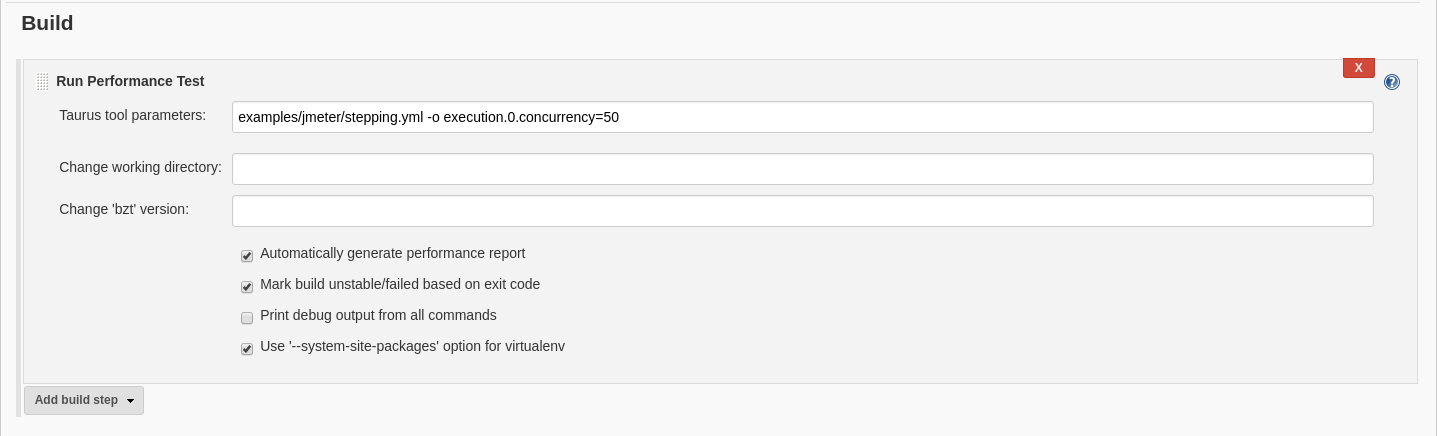
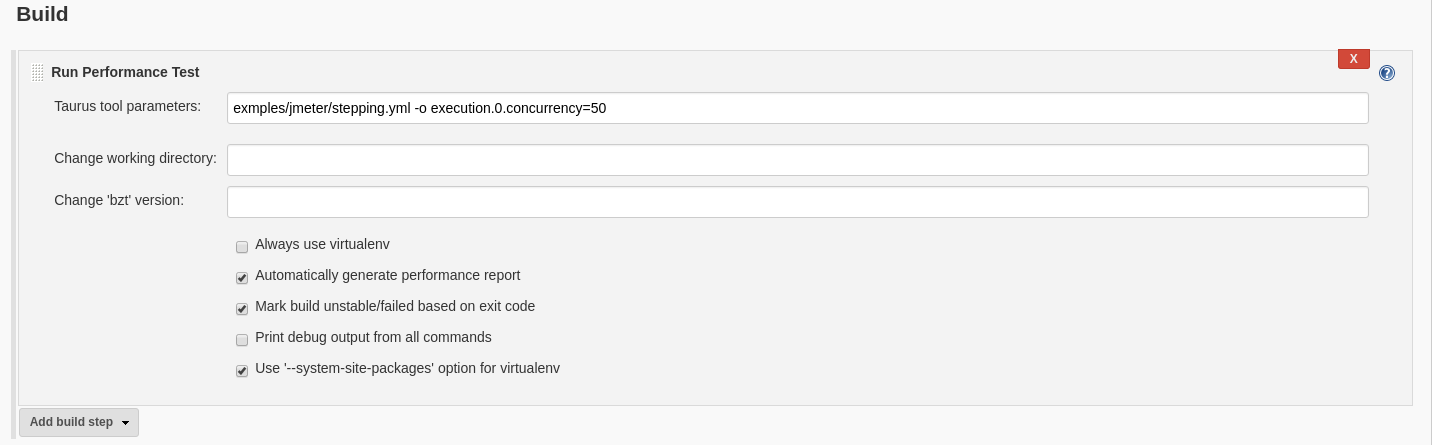
add `Always use virtualenv` flag (#116)

diff --git a/src/main/java/hudson/plugins/performance/build/PerformanceTestBuild.java b/src/main/java/hudson/plugins/performance/build/PerformanceTestBuild.java
@@ -71,6 +71,7 @@ public class PerformanceTestBuild extends Builder implements SimpleBuildStep {
 
     private String params;
     private boolean printDebugOutput = false;
+    private boolean alwaysUseVirtualenv = false;
     private boolean useSystemSitePackages = true;
     private boolean generatePerformanceTrend = true;
     private boolean useBztExitCode = true;
@@ -103,7 +104,7 @@ public class PerformanceTestBuild extends Builder implements SimpleBuildStep {
         }
 
         boolean isVirtualenvInstallation = false;
-        if (isGlobalBztInstalled(buildStepWorkspace, logger, launcher, envVars) ||
+        if ((!alwaysUseVirtualenv && isGlobalBztInstalled(buildStepWorkspace, logger, launcher, envVars)) ||
                 (isVirtualenvInstallation = installBztAndCheck(buildStepWorkspace, logger, launcher, envVars))) {
 
             int testExitCode = runPerformanceTest(buildStepWorkspace, logger, launcher, envVars, isVirtualenvInstallation);
@@ -322,6 +323,15 @@ public class PerformanceTestBuild extends Builder implements SimpleBuildStep {
 
     public boolean isPrintDebugOutput() {
         return printDebugOutput;
+    }
+
+    public boolean isAlwaysUseVirtualenv() {
+        return alwaysUseVirtualenv;
+    }
+
+    @DataBoundSetter
+    public void setAlwaysUseVirtualenv(boolean alwaysUseVirtualenv) {
+        this.alwaysUseVirtualenv = alwaysUseVirtualenv;
     }
 
     @DataBoundSetter

diff --git a/src/test/java/hudson/plugins/performance/build/PerformanceTestBuildTest.java b/src/test/java/hudson/plugins/performance/build/PerformanceTestBuildTest.java
@@ -89,6 +89,7 @@ public class PerformanceTestBuildTest extends HudsonTestCase {
         testBuild.setUseBztExitCode(false);
         testBuild.setUseSystemSitePackages(false);
         testBuild.setPrintDebugOutput(false);
+        testBuild.setAlwaysUseVirtualenv(false);
         testBuild.setBztVersion("1.0.0.0.0");
         assertEquals("1.0.0.0.0", testBuild.getBztVersion());
         assertEquals("test option", testBuild.getParams());
@@ -99,14 +100,17 @@ public class PerformanceTestBuildTest extends HudsonTestCase {
         assertFalse(testBuild.isPrintDebugOutput());
         assertFalse(testBuild.isGeneratePerformanceTrend());
         assertFalse(testBuild.isUseBztExitCode());
+        assertFalse(testBuild.isAlwaysUseVirtualenv());
         testBuild.setGeneratePerformanceTrend(true);
         testBuild.setPrintDebugOutput(true);
         testBuild.setUseSystemSitePackages(true);
         testBuild.setUseBztExitCode(true);
+        testBuild.setAlwaysUseVirtualenv(true);
         assertTrue(testBuild.isUseSystemSitePackages());
         assertTrue(testBuild.isPrintDebugOutput());
         assertTrue(testBuild.isGeneratePerformanceTrend());
         assertTrue(testBuild.isUseBztExitCode());
+        assertTrue(testBuild.isAlwaysUseVirtualenv());
     }
 
 

diff --git a/docs/RunTests.md b/docs/RunTests.md
@@ -35,6 +35,7 @@ Clicking on "Advanced..." will open several options that can alter build step be
 
 - _Change working directory_ - set working directory in which test will be run, by default will be used build workspace
 - _Change 'bzt' version_ - set `bzt` version that will be installed inside a `virtualenv`, by default will be installed the latest version
+- _Always use virtualenv_ - enable this flag if you want to install `bzt` into `virtualenv`
 - _Automatically generate performance report_ - enabled by default, builds [performance trend report](Reporting.md) from Taurus execution results, you can turn it off if you don't need report
 - _Mark build unstable/failed based on exit code_ - enabled by default, will mark build step failed if Taurus exit code is 1, and will mark it unstable if it's another non-zero exit code
 - _Print debug output from all commands_ - enable this flag if you are experiencing `bzt` installation issues and want to get more debugging information into console log

diff --git a/docs/Changelog.md b/docs/Changelog.md
@@ -2,6 +2,7 @@
 # Changelog 
 
 ## v3.2 (upcoming)
+- FEATURE: Add `Always use virtualenv` option
 - FIX: Changing build status with default comparison option
 - FIX: Saving RelativeUnstableThresholdNegative. Contributed by [Märt Bakhoff](https://github.com/mbakhoff)
 
